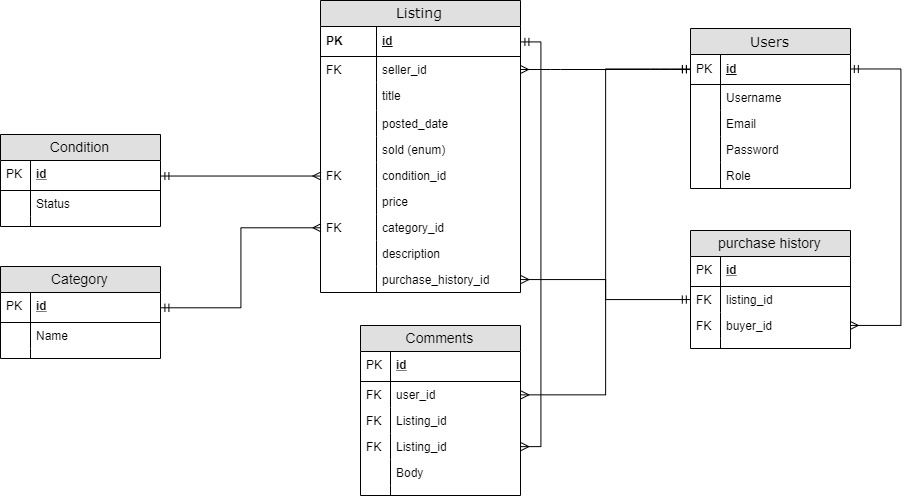
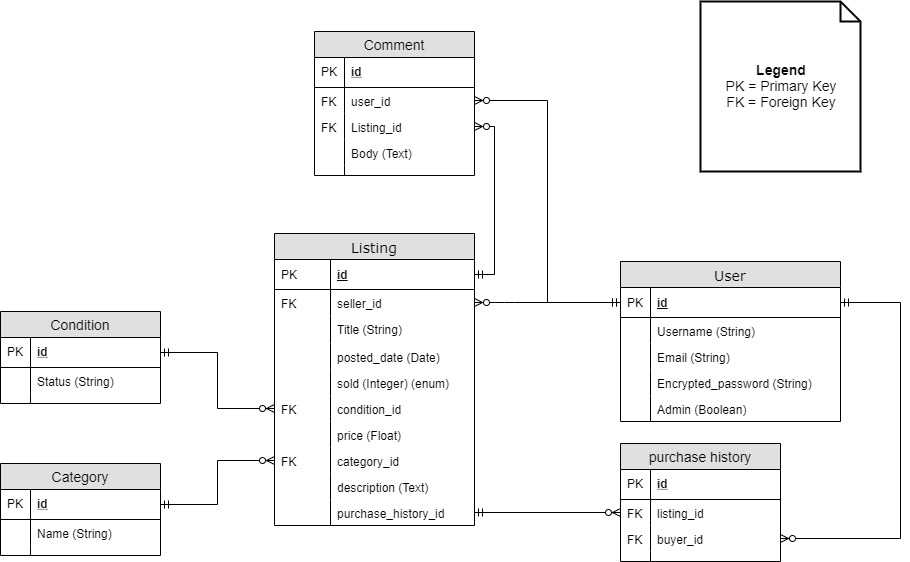
update README and fixed erd to reflect the many to many table

diff --git a/app/models/user.rb b/app/models/user.rb
@@ -5,7 +5,7 @@ class User < ApplicationRecord
          :recoverable, :rememberable, :validatable
   has_many :listings, dependent: :destroy
   has_many :comments, dependent: :destroy
-  has_many :purchase_histories, dependent: :destroy
+  has_many :purchase_histories
   validates :username, :email, uniqueness: true
 
   # instead of deleting, indicate the user requested a delete & timestamp it  

diff --git a/app/models/listing.rb b/app/models/listing.rb
@@ -11,7 +11,7 @@ class Listing < ApplicationRecord
 
   has_one_attached :picture, dependent: :destroy
   has_many :comments, dependent: :destroy
-  has_many :purchase_histories, dependent: :destroy
+  has_many :purchase_histories
 
   enum sold: { available: 0, sold: 1 }
   accepts_nested_attributes_for :category, reject_if: :all_blank, allow_destroy: true

diff --git a/README.md b/README.md
@@ -74,6 +74,10 @@ There is an admin role, which grants a specific user (such as a manager) the abi
 ### Planning
 Trello was used as the planning tool to document and check progress of the application. The process for keeping track of the tasks was putting them into individual cards on trello. Cards are lined up in the backlog based on the importance of the task. They are moved to 'Doing' when they're being worked on and finally moved to 'Done'. once the task is completed.
 
+![Trello 4](./resources/trello4.JPG)
+
+![Trello 3](./resources/trello3.JPG)
+
 ![Trello 2](./resources/trello2.JPG)
 
 ![Trello 1](./resources/trello1.JPG)
@@ -103,6 +107,19 @@ Create Listings Page
 
 ## Database Models
 
+### Database Relationships
+
+Users has many listings
+Condition has many listings
+Category has many listings
+Listing has many comments
+Listings has many purchase_history
+Users has many purchase_history
+
+
+
+### Database Interactions
+
 The interaction in the ERD is based on a simple design where the relationships revolve around the listings.
 
 As demonstrated below, the ERD contains 6 tables, that interact with listings in one way or another.
@@ -115,10 +132,10 @@ Next, table connected to Listings, is the User table. Users can have many listin
 
 Comments table is attached to listings. A Listing can have many comments. The comments belong to specific listings as the user would have a space to communicate between each other for stuff such as inquiries.
 
-Finally, the purchase history table is designed to store relevant data relating to when a user has completed a purchase. It 
+Finally, the purchase history table is designed to store relevant data relating to when a user has completed a purchase. 
 
 ### ERD
-![AccioCurios ERD](./resources/erd.png)
+![AccioCurios ERD](./resources/erd.jpg)
 
 ### Schema
 
@@ -128,7 +145,7 @@ Extract from Application Schema
 
 ````ruby
 
-ActiveRecord::Schema.define(version: 2019_11_02_102034) do
+ActiveRecord::Schema.define(version: 2019_11_07_051215) do
 
   # These are extensions that must be enabled in order to support this database
   enable_extension "plpgsql"
@@ -212,6 +229,7 @@ ActiveRecord::Schema.define(version: 2019_11_02_102034) do
     t.datetime "updated_at", null: false
     t.string "username", default: "", null: false
     t.boolean "admin", default: false
+    t.datetime "deleted_at"
     t.index ["email"], name: "index_users_on_email", unique: true
     t.index ["reset_password_token"], name: "index_users_on_reset_password_token", unique: true
   end
@@ -225,6 +243,7 @@ ActiveRecord::Schema.define(version: 2019_11_02_102034) do
   add_foreign_key "purchase_histories", "listings"
   add_foreign_key "purchase_histories", "users"
 end
+
 ````
 
 ## Third Party Services
